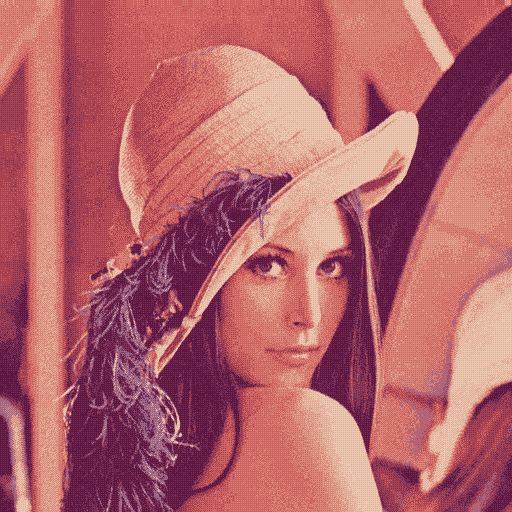
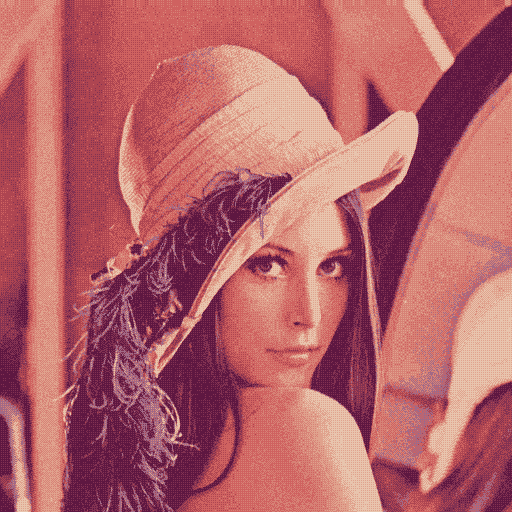
Fixed bw dither and reduce.  Added proper mode selection.

diff --git a/dither.py b/dither.py
@@ -25,38 +25,8 @@ thresholdMap = {
         [42, 26, 38, 22, 41, 25, 37, 21]],
 }
 
-def bwDither(image, outname, size=4):
-    threshold = thresholdMap[size]
-
-    width, height = image.shape
-    for x in range(0, width, size):
-        for y in range(0, height, size):
-
-            count = 0
-            total = 0
-            for i in range(0, size):
-                for j in range(0, size):
-                    try:
-                        r, g, b = image.getpixel((x + i, y + j))
-                        total += (r + g + b) / 3
-                        count += 1  # count is needed in case we go past the edge of the picture
-                    except IndexError:
-                        pass
-
-            grey = total / count
-            bracketed = round(grey / (256 / (size * size)))
-
-            for i in range(0, size):
-                for j in range(0, size):
-                    try:
-                        image.putpixel((x + i, y + j), ((bracketed > threshold[i][j] + 0.5 and 255,) * 3))
-                    except IndexError:
-                        pass
-
-    image.save(outname)
-
 def nearestColour(colour, palette):
-    pal = palette.cluster_centers_
+    pal = palette.data
     closestColour = pal[0]
     closestDist = colourDist(colour, toCol(pal[0]))
     for c in pal[1:]:
@@ -98,6 +68,20 @@ def savePalette(colours, fname):
         draw.rectangle([panelSize * i, 0, panelSize * (i + 1), panelSize], tuple(toCol(colour)))
     paletteImage.save(fname + '-palette.png')
 
+def bwOrderedDither(image, fname, size):
+    threshold = thresholdMap[size]
+
+    width, height, channels = image.shape
+    for x in range(width):
+        for y in range(height):
+            colour = image[x][y]
+            grey = (int(colour[0]) + int(colour[1]) + int(colour[2])) / 3
+            bracketed = round(grey / (256 / (size * size)))
+
+            image[x][y]= [bracketed > threshold[x % size][y % size] + 0.5 and 255,] * 3
+
+    return fname + '-bw-' + str(size) + 'x' + str(size) + '.png'
+
 def colourReduce(image, palette, fname):
     width, height, channels = image.shape
     for x in range(0, width):
@@ -109,7 +93,7 @@ def colourReduce(image, palette, fname):
 
     return fname + '-r.png'
 
-def colourDither(image, palette, fname, size=4):
+def colourOrderedDither(image, palette, fname, size):
     threshold = thresholdMap[size]
 
     width, height, channels = image.shape
@@ -129,42 +113,48 @@ def hexToRGB(hexes):
     return [[c for c in bytes.fromhex(hex)] for hex in hexes]
 
 def main():
-    nColours = 8
+    nColours = 4
     size = 8
     infile = 'originals/lenna.png'
     basename = os.path.basename(infile)
     fname, ext = os.path.splitext(basename)
     lab = False
     manualPalette = False
+    mode = 'reduce'
 
     image = io.imread(infile)
     if lab:
         image = color.rgb2lab(image)
 
-    colours = None
-    if manualPalette:
-        chrono = ['080000', '201A0B', '432817', '492910',
-                  '234309', '5D4F1E', '9C6B20', 'A9220F',
-                  '2B347C', '2B7409', 'D0CA40', 'E8A077',
-                  '6A94AB', 'D5C4B3', 'FCE76E', 'FCFAE2']
-        colours = hexToRGB(chrono)
-        if (lab):
-            labColours = color.rgb2lab(np.array([colours], dtype=np.uint8))[0]
-            palette = makePalette(labColours)
+    if 'bw' not in mode:
+        colours = None
+        if manualPalette:
+            chrono = ['080000', '201A0B', '432817', '492910',
+                      '234309', '5D4F1E', '9C6B20', 'A9220F',
+                      '2B347C', '2B7409', 'D0CA40', 'E8A077',
+                      '6A94AB', 'D5C4B3', 'FCE76E', 'FCFAE2']
+            colours = hexToRGB(chrono)
+            if (lab):
+                labColours = color.rgb2lab(np.array([colours], dtype=np.uint8))[0]
+                palette = makePalette(labColours)
+            else:
+                palette = makePalette(colours)
         else:
-            palette = makePalette(colours)
-    else:
-        palette = findPalette(image, nColours)
-        colours = palette.data
+            palette = findPalette(image, nColours)
+            colours = palette.data
 
-    fname += '-' + str(len(colours)) + 'c'
-    if lab:
-        fname += '-L'
+        fname += '-' + str(len(colours)) + 'c'
+        if lab:
+            fname += '-L'
 
-    savePalette(colours, 'palettes/' + fname)
+        savePalette(colours, 'palettes/' + fname)
 
-    # fname = colourReduce(image, fname)
-    fname = colourDither(image, palette, fname, size)
+    if mode == 'bwOrd':
+        fname = bwOrderedDither(image, fname, size)
+    if mode == 'reduce':
+        fname = colourReduce(image, palette, fname)
+    elif mode == 'colourOrd':
+        fname = colourOrderedDither(image, palette, fname, size)
 
     if lab:
         image = color.lab2rgb(image)
